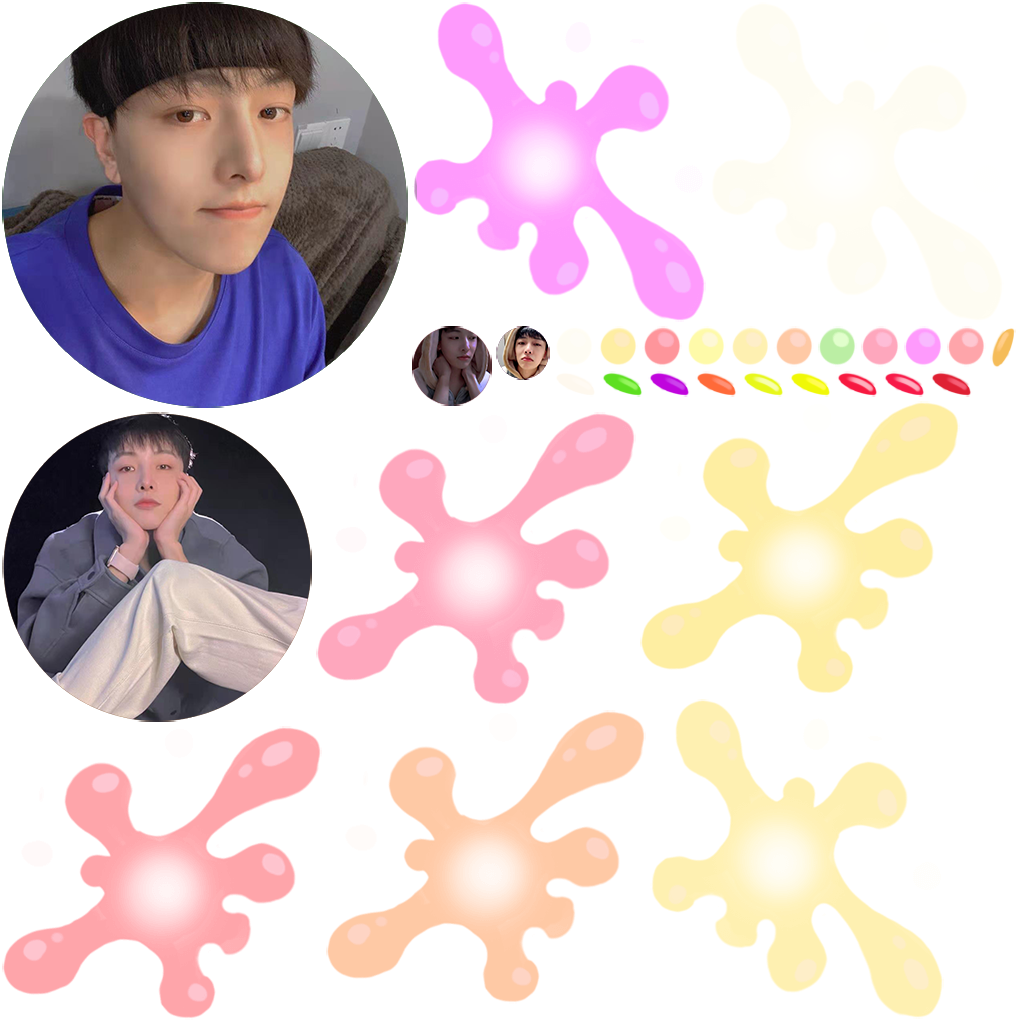
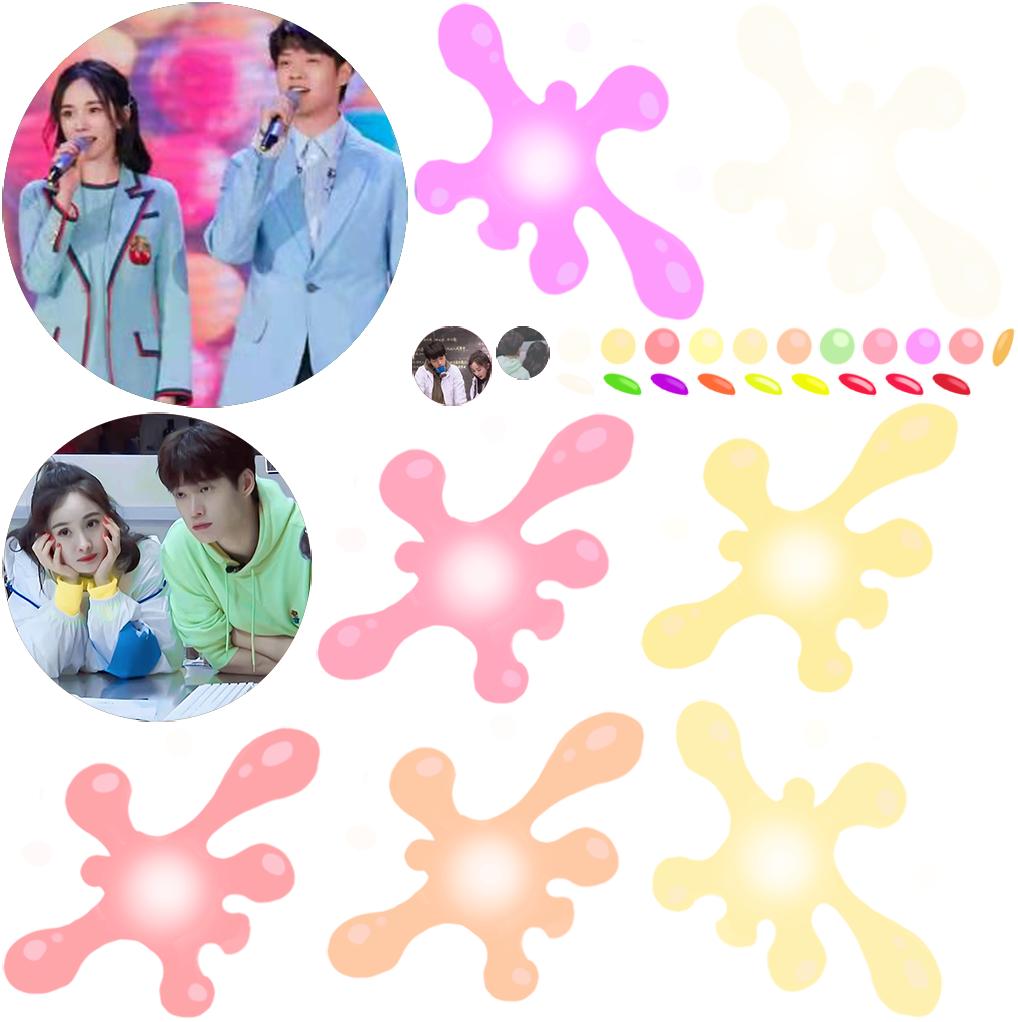
nitial commit

Changed region(s): [[0.0, 0.0, 0.4263, 0.728], [0.3959, 0.3033, 0.5481, 0.3943]]

diff --git a/index.html b/index.html
@@ -4,7 +4,7 @@
 <head>
     <meta charset="utf-8">
 
-    <title>合成郑英俊</title>
+    <title>合成勋幂</title>
 
     <!--http://www.html5rocks.com/en/mobile/mobifying/-->
     <meta name="viewport" content="width=device-width,user-scalable=no,initial-scale=1, minimum-scale=1,maximum-scale=1" />
@@ -109,7 +109,7 @@
             //        console.log("window.navigator.language",window.navigator.language);
 
             if (window.navigator.language == "zh-CN" || window.navigator.language == "zh-cn") {
-                document.title = "合成郑英俊";
+                document.title = "合成勋幂";
             } 
 
 
